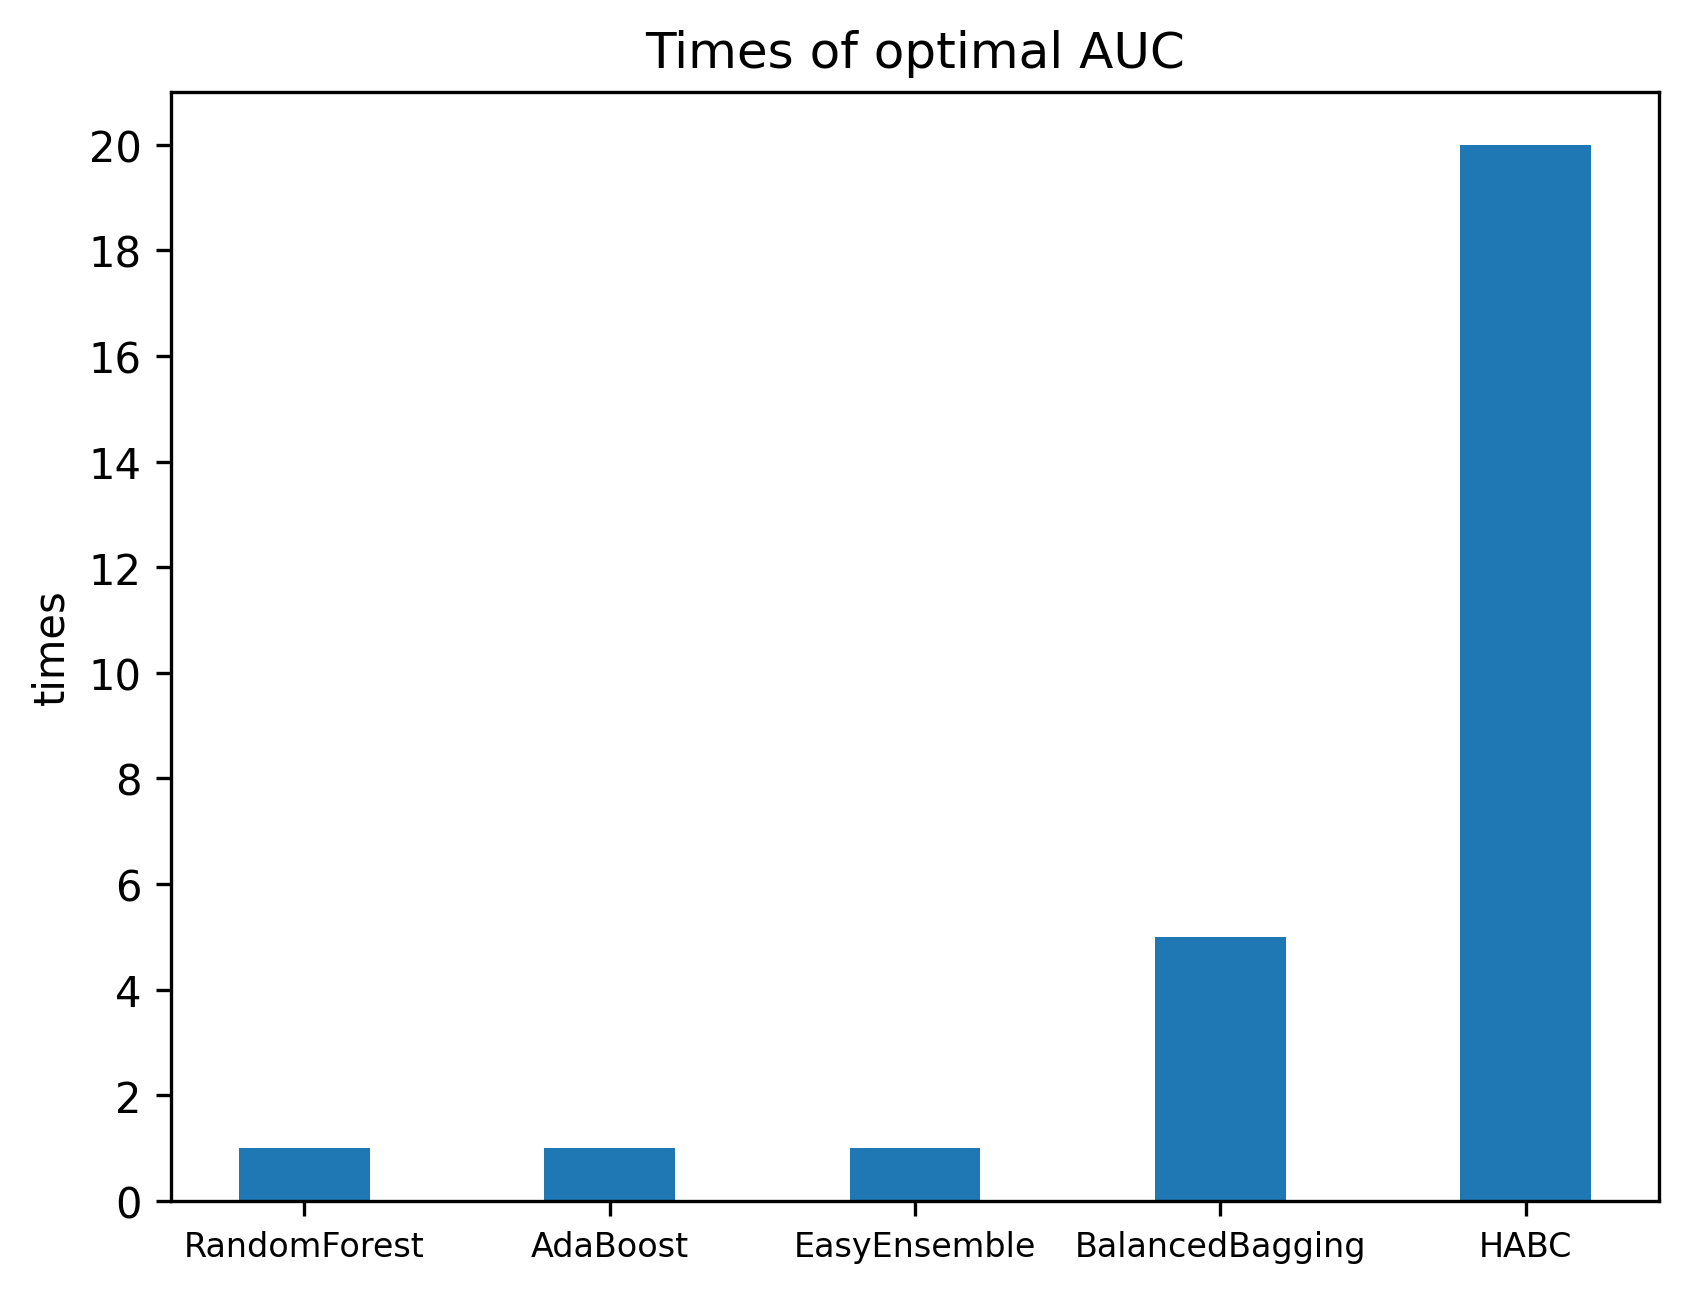
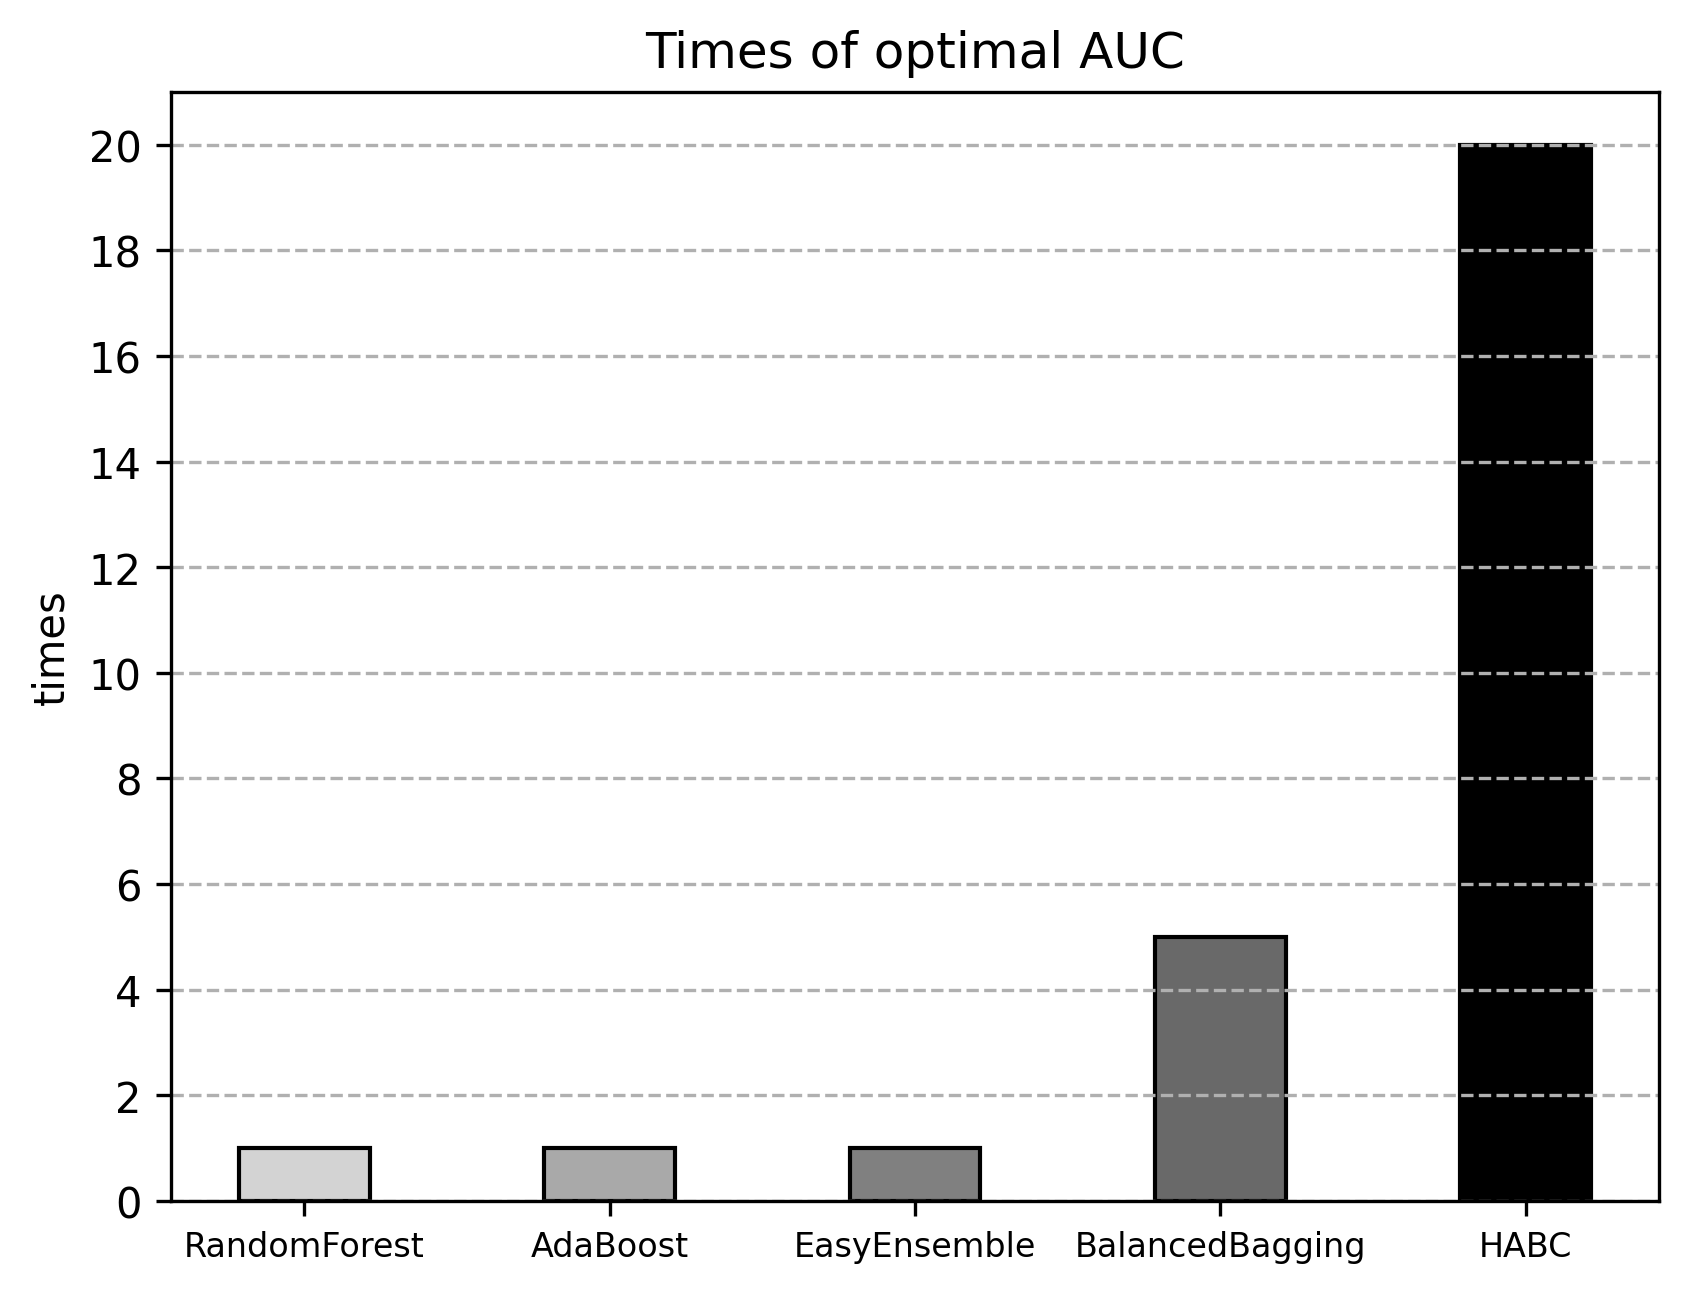
daily commit

diff --git a/img/draw_image.py b/img/draw_image.py
@@ -124,6 +124,8 @@ def draw_bar(x_tick_labels, y_data, y_ticks=None, save_name=None, title=None, y_
     if y_ticks is not None:
         plt.yticks(y_ticks)
 
+    plt.grid(axis='y', linestyle='--') # 设置网格线
+
     # 开始画每组数据
     draw_point = []  # 每组数据中每条画点
     point = bar_width / 2
@@ -133,9 +135,13 @@ def draw_bar(x_tick_labels, y_data, y_ticks=None, save_name=None, title=None, y_
         draw_point.append(point)
     draw_point = np.array(draw_point)
 
+    my_color = ['lightgrey', 'darkgrey', 'grey', 'dimgrey', 'black']
+    # my_color = ['lightgrey', 'darkgrey', 'grey', 'dimgrey', 'black']
+
     all_bar = []
     for i, height in enumerate(y_data):
-        bar = plt.bar(x=draw_point, width=bar_width, height=height)
+        bar = plt.bar(x=draw_point, width=bar_width, height=height,
+                      color=my_color, edgecolor='black') # 绘制条状图
         draw_point += unit_inner_space + bar_width
         all_bar.append(bar)
 
@@ -633,4 +639,4 @@ def fig_18():
 
 
 if __name__ == '__main__':
-    fig_17()
+    fig_6()
